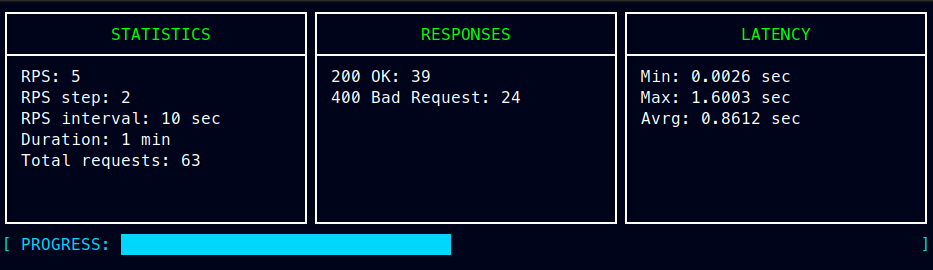
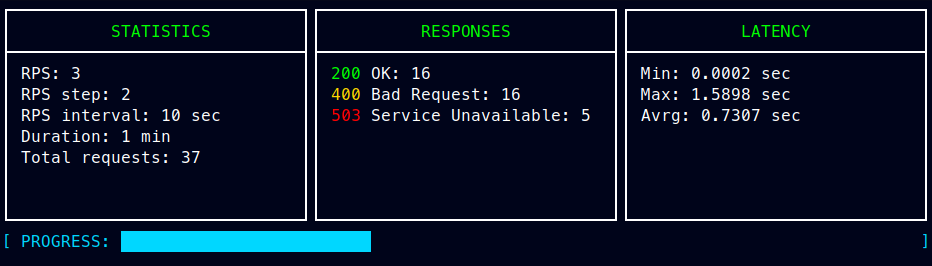
feat: add colors to response status code

diff --git a/metrics/responses.go b/metrics/responses.go
@@ -1,9 +1,12 @@
 package metrics
 
 import (
+	"andr-ll/plt/colors"
 	"andr-ll/plt/conf"
 	"andr-ll/plt/terminal"
 	"fmt"
+	"strconv"
+	"strings"
 	"sync"
 )
 
@@ -64,7 +67,24 @@ func (s *responses) render() {
 			value = fmt.Sprint(options.amount)
 		} else {
 			distance = responses_col + 2
-			value = fmt.Sprintf("%s: %d", response, options.amount)
+			statusSlice := strings.Split(response, " ")
+			numbStatus, err := strconv.Atoi(statusSlice[0])
+
+			if err != nil {
+				panic("Could not convert status code to number")
+			}
+
+			var coloredStatus string
+
+			if numbStatus >= 200 && numbStatus < 400 {
+				coloredStatus = colors.Green(fmt.Sprint(numbStatus))
+			} else if numbStatus >= 400 && numbStatus < 500 {
+				coloredStatus = colors.Orange(fmt.Sprint(numbStatus))
+			} else if numbStatus >= 500 {
+				coloredStatus = colors.Red(fmt.Sprint(numbStatus))
+			}
+
+			value = fmt.Sprintf("%s %s: %d", coloredStatus, strings.Join(statusSlice[1:], " "), options.amount)
 		}
 
 		terminal.PrintAt(options.id+3, distance, value)

diff --git a/colors/main.go b/colors/main.go
@@ -19,6 +19,10 @@ func Yellow(str string) string {
 	return set(226, str)
 }
 
+func Orange(str string) string {
+	return set(220, str)
+}
+
 func Blue(str string) string {
 	return set(45, str)
 }

diff --git a/conf/constants.go b/conf/constants.go
@@ -1,6 +1,7 @@
 package conf
 
 const (
-	DEFAULT_WIDTH  = 30
-	DEFAULT_HEIGHT = 10
+	CURRENT_VERSION = "v0.1.1"
+	DEFAULT_WIDTH   = 30
+	DEFAULT_HEIGHT  = 10
 )

diff --git a/conf/parse_args.go b/conf/parse_args.go
@@ -5,8 +5,6 @@ import (
 	"os"
 )
 
-const CURRENT_VERSION = "v0.1.0"
-
 func parseArgs() []string {
 	args := os.Args[1:]
 
